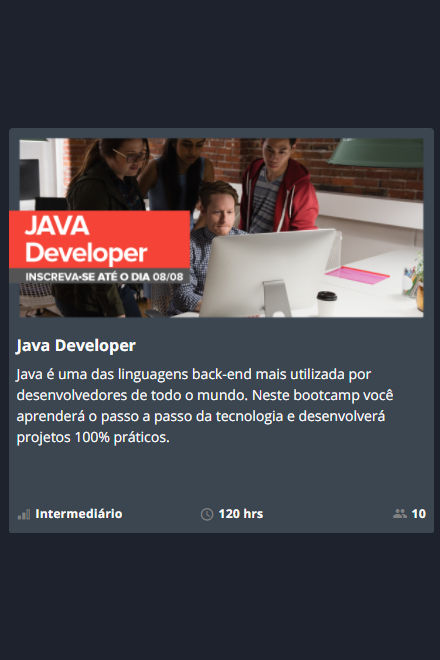
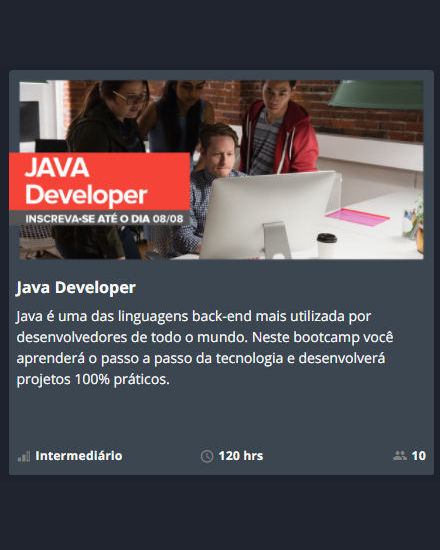
Add Responsive.css and images

diff --git a/style/responsive.css b/style/responsive.css
@@ -4,10 +4,22 @@
     flex-direction: column;
     }
 
-    .botao{
-        margin-top: 60px;
-        margin-left: 7px;
-        width: 300px;
+    .curso-principal {
+        
+            background:  url('../img/capa2.jpg');
+            height: 200px;
+            background-size: cover;
+           
     }
-
+    .botao{
+        background-color: rgba(0,0,0,.50);
+        border:none;
+        color: white;
+        padding: 9px;
+        margin-top: 60px;
+        font-size: 12px;
+        margin-left: 5px;
+        width: 300px;
+        float: left;
+    }
 }

diff --git a/style/main.css b/style/main.css
@@ -22,8 +22,7 @@ header .container{
     display:flex;
     flex-direction: row;
     align-items: center;
-    justify-content: space-between;
-      
+    justify-content: space-between;     
 }
 
 
@@ -44,10 +43,9 @@ header nav a:hover{
     color: var(--cinza);
 }
 
-/*curso principal */
 .curso-principal {
     background:  url('../img/capa.jpg');
-    height: 350px;
+    height: 300px;
     background-size: cover;    
 }
 
